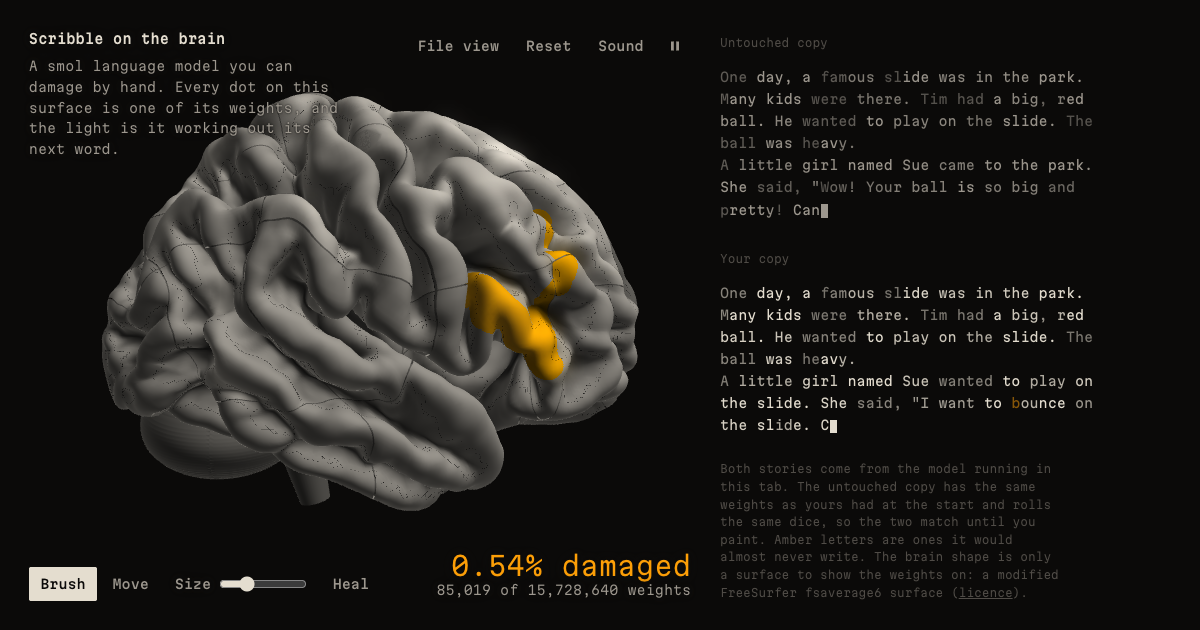
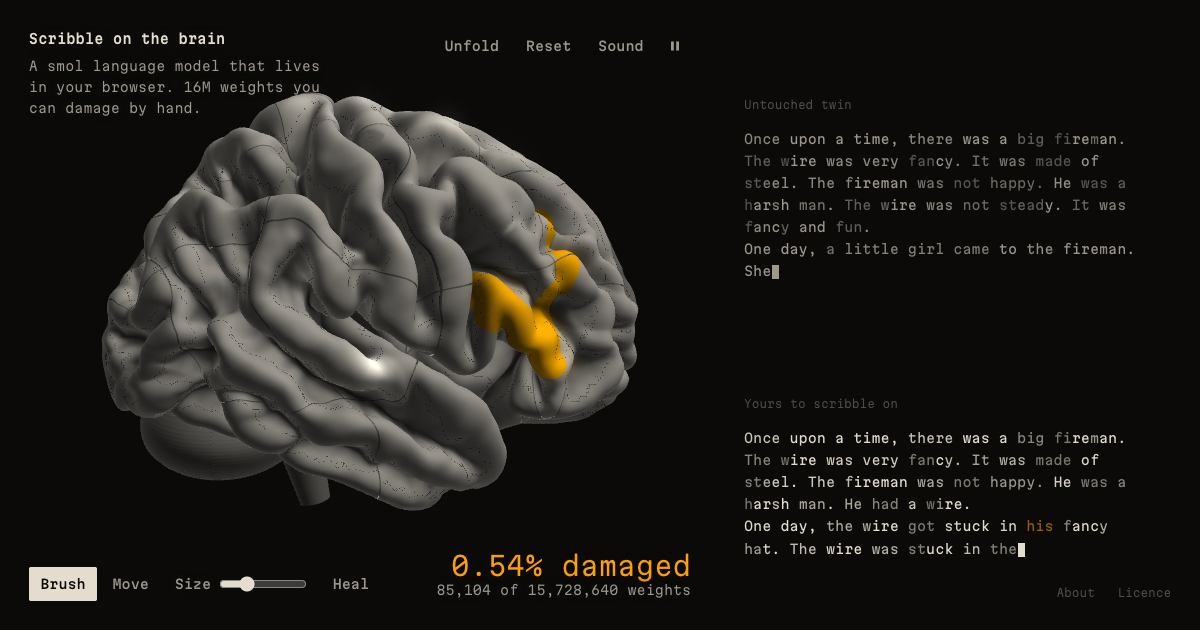
feat(web): turn sound on by default, starting with the first touch

diff --git a/web/src/main.ts b/web/src/main.ts
@@ -17,9 +17,27 @@ const ZOOM_PER_WHEEL_UNIT = 0.0016;
 const SMALLEST_BRUSH_WEIGHTS = 1.5; // brush radius never shrinks below this many weights
 const CLOSE_UP = 0.55; // nearer than this share of the opening distance, the page hides its introduction
 const TOUCH_SLOP_PIXELS = 8; // a finger must travel this far before it paints
+const SOUND_KEY = "scribble.sound"; // "off" once the visitor has muted the page
 const calm = matchMedia("(prefers-reduced-motion: reduce)").matches;
 
 const $ = <T extends HTMLElement = HTMLElement>(id: string) => document.getElementById(id) as T;
+
+/** A small choice kept in this browser between visits. Storage can be blocked; then nothing is kept. */
+function recall(key: string): string | null {
+  try {
+    return localStorage.getItem(key);
+  } catch {
+    return null;
+  }
+}
+
+function remember(key: string, value: string): void {
+  try {
+    localStorage.setItem(key, value);
+  } catch {
+    // Private windows and locked-down browsers refuse; the choice then lasts for this visit only.
+  }
+}
 
 async function fetchOk(path: string): Promise<Response> {
   const response = await fetch(path);
@@ -136,9 +154,23 @@ async function start(): Promise<void> {
     $("pause").classList.toggle("paused", !playing);
   });
 
+  // Sound is on unless the visitor has turned it off before. A browser will
+  // not play anything until the page is touched, so it starts with the first
+  // tap, click or key press, whatever that happens to be.
+  let wantSound = recall(SOUND_KEY) !== "off";
+  $("sound").setAttribute("aria-pressed", String(wantSound));
+  const wakeEvents = ["pointerdown", "pointerup", "keydown", "click"] as const;
+  function wakeSound(): void {
+    if (wantSound && !sounds.isRunning) void sounds.setEnabled(true);
+    if (sounds.isRunning || !wantSound) for (const type of wakeEvents) window.removeEventListener(type, wakeSound, true);
+  }
+  for (const type of wakeEvents) window.addEventListener(type, wakeSound, true);
+
   $("sound").addEventListener("click", async () => {
-    await sounds.setEnabled(!sounds.isEnabled);
-    $("sound").setAttribute("aria-pressed", String(sounds.isEnabled));
+    wantSound = !wantSound;
+    remember(SOUND_KEY, wantSound ? "on" : "off");
+    $("sound").setAttribute("aria-pressed", String(wantSound));
+    await sounds.setEnabled(wantSound, true);
   });
 
   window.addEventListener("keydown", (event: KeyboardEvent) => {

diff --git a/web/src/audio/instrument.ts b/web/src/audio/instrument.ts
@@ -1,7 +1,8 @@
 // Makes the sounds described in sounds.ts with the Web Audio API. Everything
 // is built from noise and sine waves here, so there are no sound files to
-// load or license. Browsers only allow sound after a click, so nothing is
-// created until `setEnabled(true)` is called from one.
+// load or license. Browsers only allow sound after the visitor touches the
+// page, so nothing is created until `setEnabled(true)` is called from a
+// click, tap or key press.
 
 import type { Key } from "./sounds";
 
@@ -22,21 +23,25 @@ export class Instrument {
   /** @param makeContext where the sound goes; a preview can pass an offline one */
   constructor(private readonly makeContext: () => BaseAudioContext = () => new AudioContext()) {}
 
-  get isEnabled(): boolean {
-    return this.enabled;
+  /** True once the browser has let the sound start. */
+  get isRunning(): boolean {
+    return this.enabled && this.context?.state === "running";
   }
 
-  /** Turn sound on or off. Must be called from a click or key press to turn on. */
-  async setEnabled(enabled: boolean): Promise<void> {
+  /**
+   * Turn sound on or off. Must be called from a click, tap or key press to
+   * turn on.
+   * @param insist the visitor asked for sound by name, so play it even on an
+   *   iPhone with the ring switch set to silent. Sound that starts by itself
+   *   leaves this off and stays quiet on a silenced phone.
+   */
+  async setEnabled(enabled: boolean, insist = false): Promise<void> {
     this.enabled = enabled;
     const live = () => (this.context instanceof AudioContext ? this.context : null);
     if (!enabled) return void (await live()?.suspend());
-    if (!this.context) {
-      // Lets the sound play on an iPhone with the ring switch set to silent.
-      const session = (navigator as { audioSession?: { type: string } }).audioSession;
-      if (session) session.type = "playback";
-      this.build(this.makeContext());
-    }
+    const session = (navigator as { audioSession?: { type: string } }).audioSession;
+    if (session) session.type = insist ? "playback" : "ambient";
+    if (!this.context) this.build(this.makeContext());
     await live()?.resume();
   }
 

diff --git a/web/index.html b/web/index.html
@@ -33,7 +33,7 @@
       <div class="tools view" role="toolbar" aria-label="View">
         <button id="fold" aria-pressed="false" title="Unfold the brain into the picture file it is made from (U)">Unfold</button>
         <button id="reset" title="Reset view (R)">Reset</button>
-        <button id="sound" aria-pressed="false" title="Sound: a key for each letter, a hum for the network, a scratch for the brush (S)">Sound</button>
+        <button id="sound" aria-pressed="true" title="Sound: a key for each letter, a hum for the network, a scratch for the brush (S)">Sound</button>
         <button id="pause" class="icon" aria-label="Pause" title="Pause or play (Space)">
           <svg class="bars" viewBox="0 0 12 12" aria-hidden="true"><rect x="2" y="1.5" width="2.8" height="9"/><rect x="7.2" y="1.5" width="2.8" height="9"/></svg>
           <svg class="arrow" viewBox="0 0 12 12" aria-hidden="true"><path d="M3 1.5v9l7.5-4.5z"/></svg>
